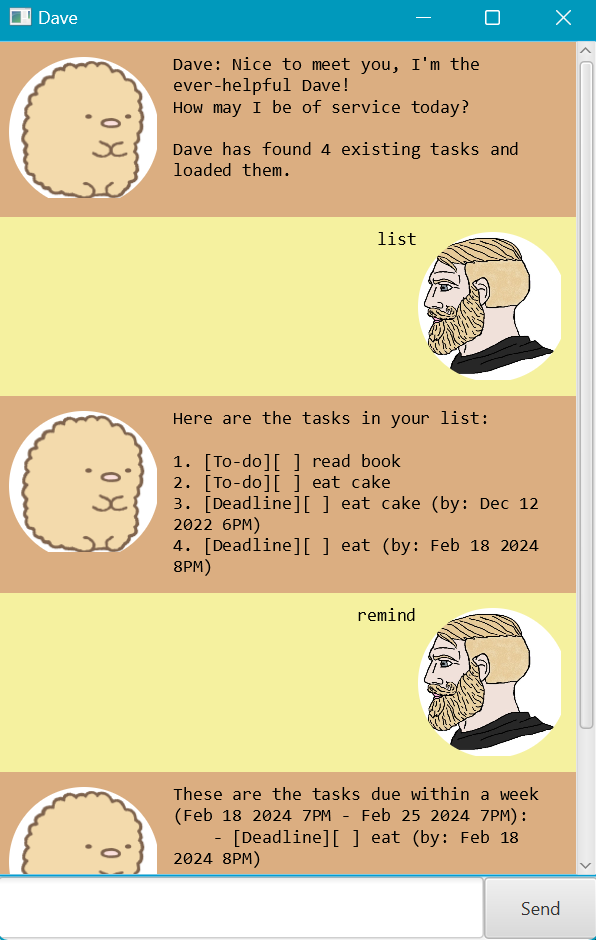
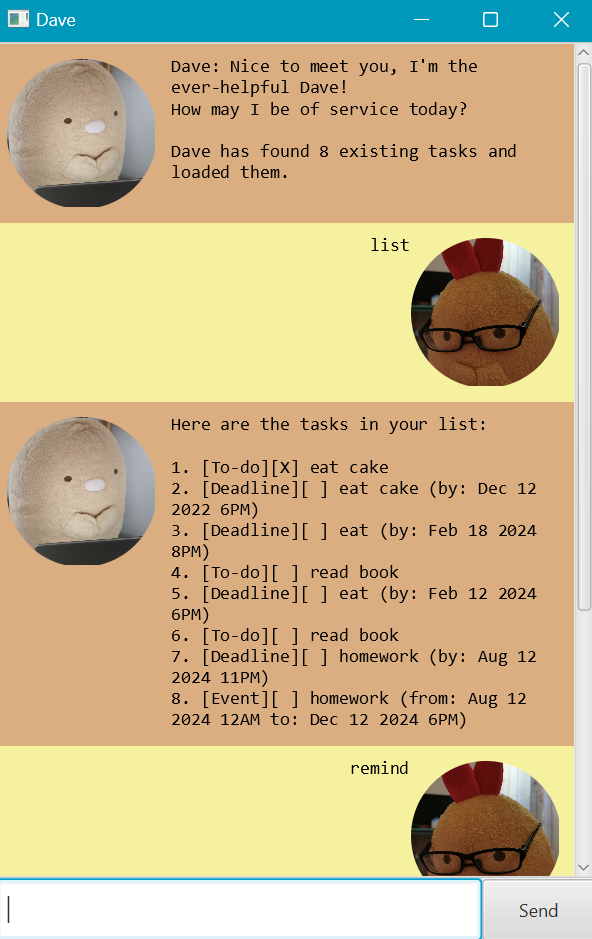
Change GUI images, edit invalid command message

diff --git a/src/main/java/dave/exceptions/InvalidInputException.java b/src/main/java/dave/exceptions/InvalidInputException.java
@@ -5,7 +5,8 @@ public class InvalidInputException extends ChatbotException {
     /**
      * Creates new InvalidInputException.
      * InvalidInputExceptions are those that occur from unrecognisable commands.
-     * Prints a message to let the user know the available commands and the parameters for each command.
+     * Prints a message to let the user know the available commands and the
+     * parameters for each command.
      */
     public InvalidInputException() {
         super("Dave does not know what to do."
@@ -13,7 +14,7 @@ public class InvalidInputException extends ChatbotException {
                 + "\n\nCommands available:\n"
                 + "- todo <task>,\n- deadline <task> /by <dd/mm/yyyy hhmm>,"
                 + "\n- event <task> /from <dd/mm/yyyy hhmm> /to <dd/mm/yyyy hhmm>,"
-                + "\n- mark <task number>,\n- delete <task number>,\n- find <keyword>,\n- list,"
-                + "\n- remind");
+                + "\n- mark <task number>,\n- unmark <task number>\n- delete <task number>,\n- find <keyword>,"
+                + "\n- list,\n- remind");
     }
 }

diff --git a/src/main/java/dave/gui/MainWindow.java b/src/main/java/dave/gui/MainWindow.java
@@ -32,7 +32,7 @@ public class MainWindow extends AnchorPane {
     private Ui daveUi;
 
     private Image userImage = new Image(this.getClass().getResourceAsStream("/images/user.jpg"));
-    private Image daveImage = new Image(this.getClass().getResourceAsStream("/images/dave.png"));
+    private Image daveImage = new Image(this.getClass().getResourceAsStream("/images/dave.jpg"));
 
     @FXML
     public void initialize() {
